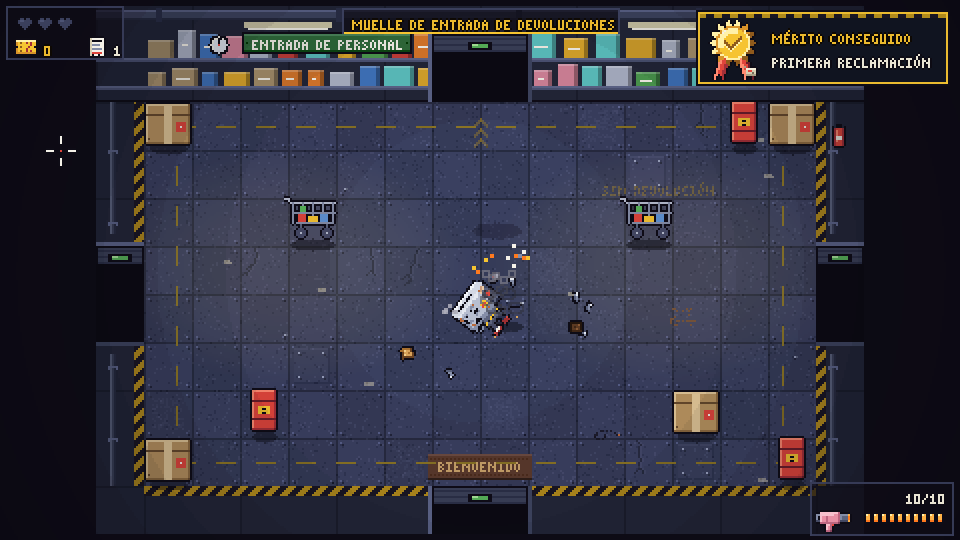
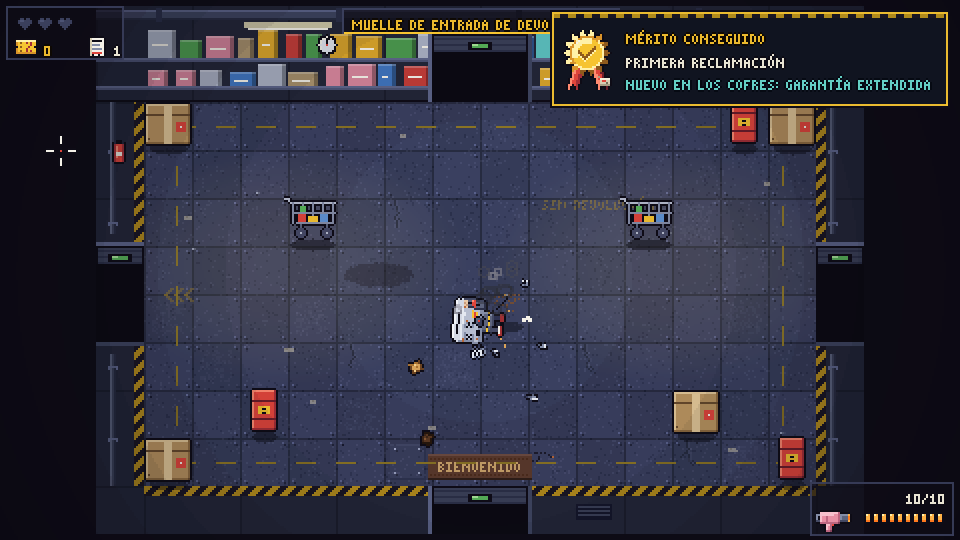
M14 (l3): bitácora, panel y métricas
Claude-Session: https://claude.ai/code/session_01LyCe1SHXEVSU81tGBecAfn

diff --git a/docs/BITACORA.md b/docs/BITACORA.md
@@ -2,6 +2,48 @@
 
 La entrada más reciente va arriba. Cada sesión añade una.
 
+## 2026-11-13 01:25 (hora peninsular, de `date`) — Hito M14 — Logros (l3): el contenido limitado
+- Contexto: el `main` local volvía a estar divergido (lo guardé como `main-stale` y puse `main` en
+  `origin/main`). Salud al empezar: `check`, 912 tests, `build` y `bot` en verde. La (j2) estaba
+  cogida por otra sesión desde las 23:41, así que hice la (l3), que no toca sus archivos; su
+  Lavadora llegó a mitad y la mezclé (un solo conflicto, en `src/data/logros.ts`: su texto nuevo de
+  «Hoja de reclamaciones completa» con mis premios).
+- Hecho: **12 logros traen premio** (`reward` en `src/data/logros.ts`): un arma o un objeto que no
+  sale en cofres, pedestales, tiendas ni salas raras hasta ganarlo. `lockedContent(ganados)` da la
+  lista; el juego la pasa a la partida (`WorldOptions.locked`, `World.locked`), que la lleva del
+  Mostrador a cada planta (`leaveHub`, `nextFloor`), y `weaponPool` y `lootDecks` la quitan de las
+  barajas. Si un logro se gana al acabar una planta, el premio ya entra en la siguiente. El aviso
+  «Mérito conseguido» tiene una tercera línea, «Nuevo en los cofres: …», y la ficha del mérito en el
+  Catálogo dice «Premio: …. Hasta entonces, agotado en todos los cofres.» o «Desbloqueado: …. Ya sale
+  en cofres y tiendas.». Los premios: Garantía Extendida (primera baja), Copia de Seguridad (primera
+  sinergia), Taza de Mejor Empleado (10 plantas), Caja de Cartón Vacía (jefe sin un rasguño),
+  Etiquetadora de Precios (100 de un modelo), Mascota Virtual (30 objetos), Cable HDMI Dorado (6
+  armas), Tarjeta de Socio (300 cupones), Cookies de Terceros (3 retos seguidos), Llave Allen
+  Sobrante (planta en 4 minutos), Valoración de Cinco Estrellas (ganar) y Megáfono de Reclamaciones
+  (5 jefes de planta). Tests nuevos en `tests/premios.test.ts` (9); e2e: `62c` es ahora un mérito en
+  progreso con premio y el bloque comprueba que la partida bloquea lo que toca.
+- Decisiones: **bloquear contenido que ya existía**, no crear contenido nuevo: es lo que pidió el
+  humano («una cantidad de armas y objetos limitada» que se desbloquea con logros) y se puede hacer
+  bien en una sesión; el contenido nuevo solo-premio queda como (l4). Cada premio tiene que ver con
+  su logro y con su chiste. Reglas que vigilan los tests: ningún premio es arma de salida; ninguna
+  sinergia necesita dos premios (por eso la Pegatina no es premio: va con la Caja); la planta 1
+  conserva un objeto y un arma «buenos» para la Caja Fuerte Premium (por eso la Broca no es premio);
+  «30 objetos» y «6 armas» se pueden lograr sin ningún premio («6 armas» pide ya desbloquear
+  personajes o el Megáfono; antes bastaba con las de la planta 5). Las armas premio son las dos de
+  la planta 5, no las de la 1: con solo dos armas en la planta 1, quitar una la dejaba en nada. Los
+  logros más difíciles (50 bajas, 1000 bajas, 8 sinergias…) no traen premio: son para presumir.
+  **Sin lista, todo desbloqueado**: los tests, los bots y la Sala de Pruebas lo tienen todo, así que
+  el bot y el equilibrio medido no cambian (el bot juega como alguien con todo ganado). **El reto
+  del día bloquea todos los premios** (`DAILY_LOCKED`) para que sea el mismo para todos; el regalo
+  del día nunca es un premio. Eso cambia el botín del reto y el regalo de 18 de los 30 días de
+  noviembre, también el de hoy (ahora, la Batería Hinchada); quien lo haya jugado hoy verá otro.
+- Medidas: no cambia el equilibrio del bot (sin lista). `npm run bot`, 200 partidas, 0 fallos.
+  927 tests en verde (con los de la Lavadora). e2e entero en verde.
+- Problemas conocidos: el bot no mide cómo se juega con todo bloqueado (un jugador nuevo encuentra
+  10 objetos y 2 armas menos). Si hiciera falta, una opción del bot con `locked: lockedContent([])`.
+- Siguiente paso: (j3) la Nube de Almacenamiento; o (l4), armas y objetos nuevos solo de premio
+  para los logros difíciles.
+
 ## 2026-11-13 00:20 (hora peninsular, de `date`) — Hito M14 — Jefes al azar (j2): la Lavadora Programa Eco
 - Contexto: el `main` local volvía a estar viejo (otro clon); lo guardé como `main-stale2` y puse
   `main` en `origin/main`. Salud al empezar: `check`, 912 tests, `build` y `bot` en verde.
